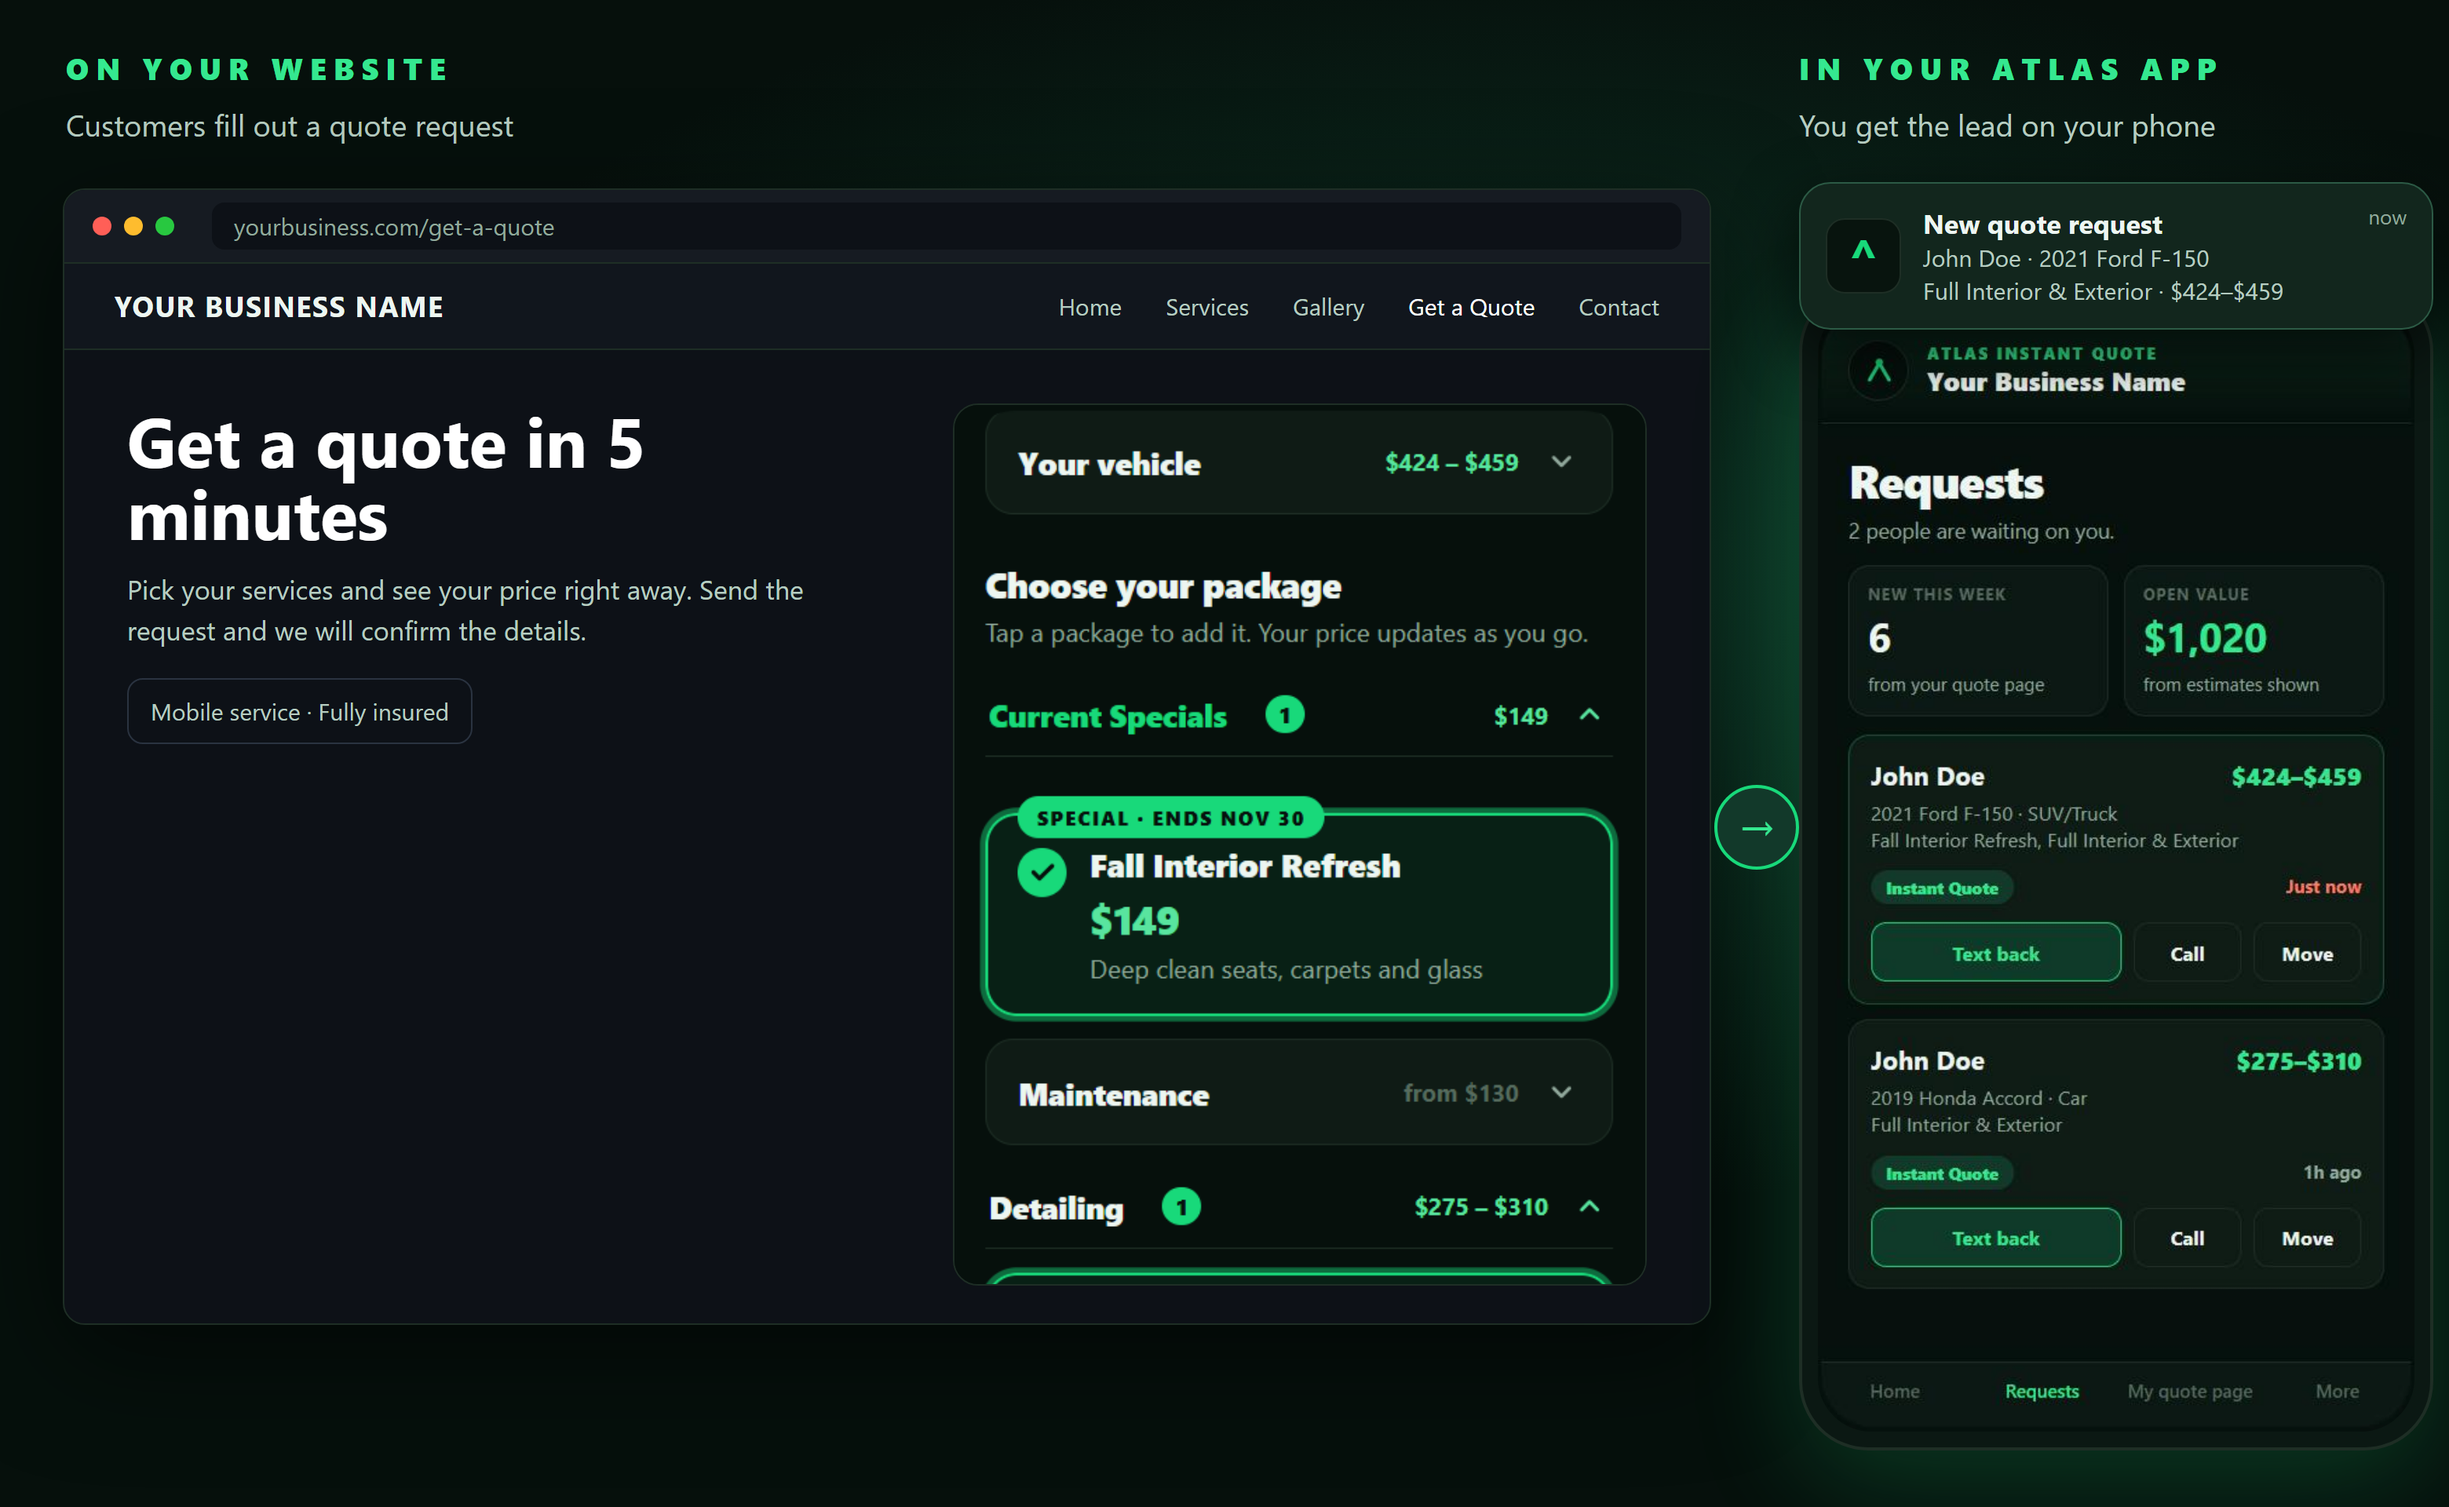
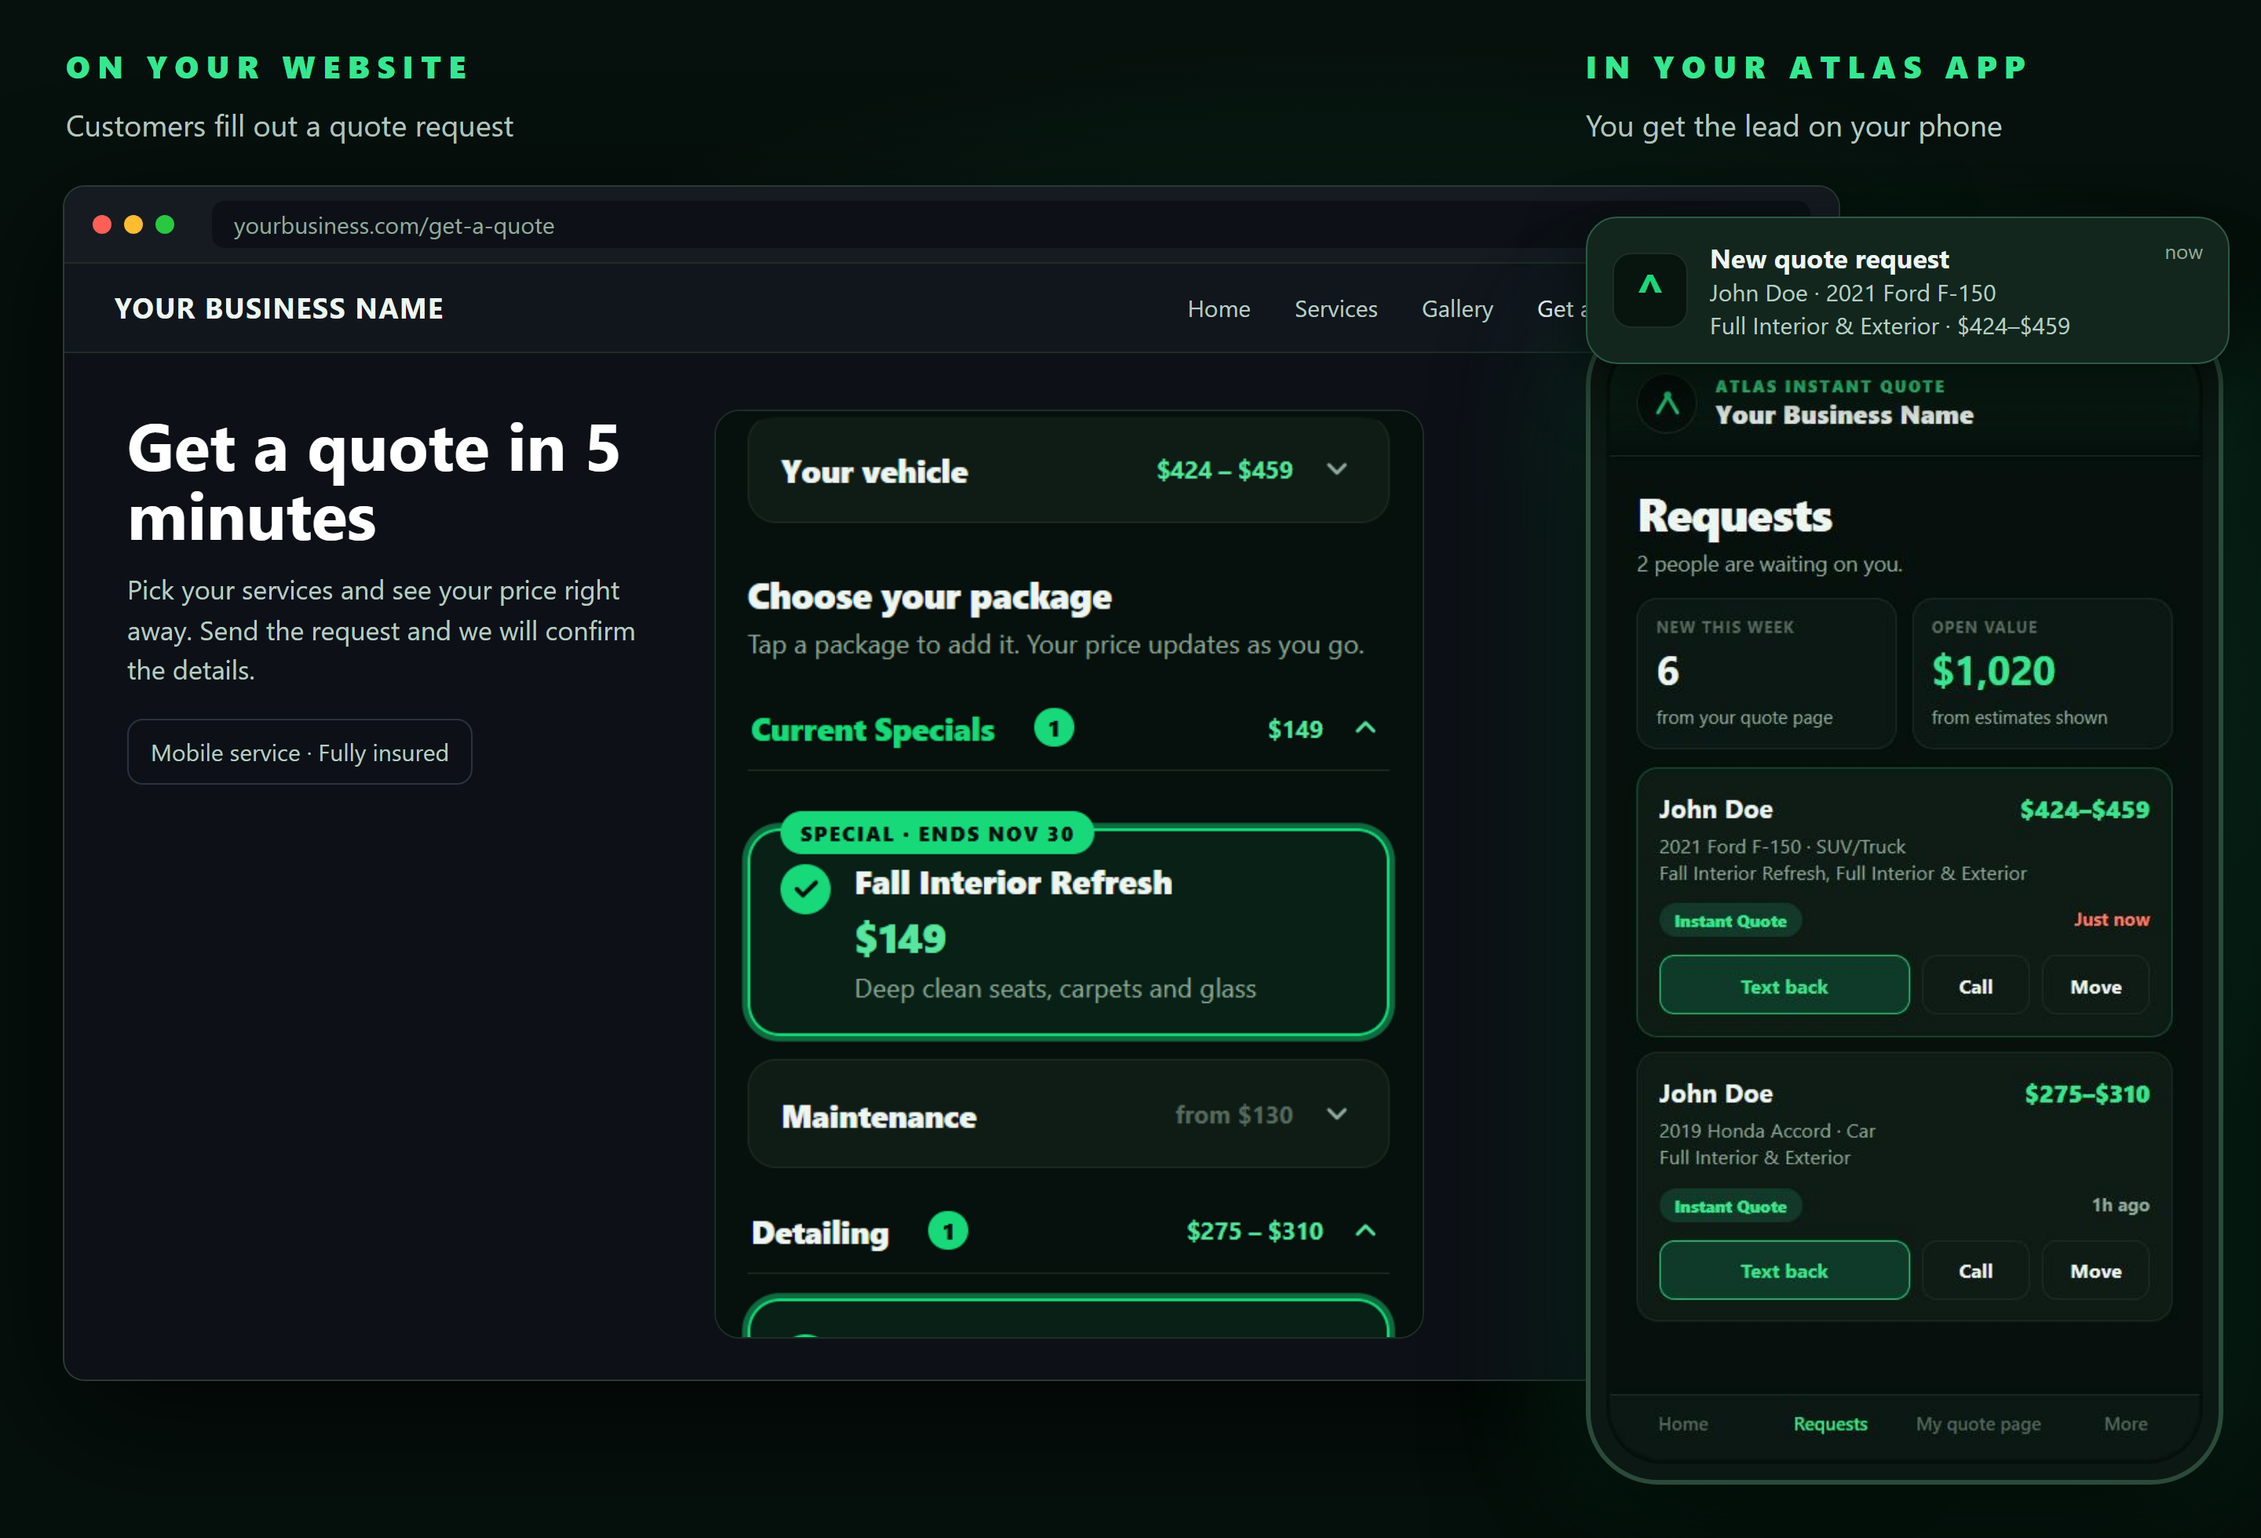
Hero image: phone overlaps the website mock in one combined picture
Claude-Session: https://claude.ai/code/session_01NYjTYLX6E3zJ2Lgkroj4cA

diff --git a/ATLAS_FEATURES.md b/ATLAS_FEATURES.md
@@ -49,7 +49,7 @@ Come back to these after the design look and style is settled.
 - Shopify $39 Done-For-You Setup offer.
 - Delete the "John Doe TEST" lead after Andre confirms the new text format.
 - Upgrade path from Instant Quote only to the full CRM (today Andre removes ui_prefs.mode in the database by hand).
-- Instant Quote Shopify product is built as a DRAFT ($147 self-serve / $247 we set it up). Andre to review, then say go to publish. Two hidden (unpublished) Shopify pages, both in the green Atlas hex look: atlas-instant-quote (sales/feature page with real demo screens: quote page, specials, send, phone alert, Requests, editor) and atlas-instant-quote-setup (7 steps + where the code goes). Demo images live in public/promo (atlas-quote-1..4.png, atlas-alert.jpg, atlas-requests.jpg, atlas-editor.jpg, atlas-hex.svg, atlas-website-and-phone.png, atlas-website-and-app.png). The sales page HERO is now one all-in-one picture (atlas-website-and-app.png): the quote form on a business website (labelled ON YOUR WEBSITE) next to the Atlas app Requests list with a New quote request push banner (labelled IN THE ATLAS APP), so buyers see both parts immediately. Below it, a "Lives on your website. Alerts on your phone." section with 3 steps. Next come "Fewer price-shoppers. More ready-to-book customers." (tire-kicker pain point, written as a pattern with NO invented stats or research claims) and "A tool that works with your website" (what the tool does vs what the owner still does: it is a quote tool, not booking/payments/auto-texting). FAQ has a "Does it book jobs or take payments?" answer. Selling guide: Desktop Atlas Plan 06-Atlas-Instant-Quote-How-To-Sell.md.
+- Instant Quote Shopify product is built as a DRAFT ($147 self-serve / $247 we set it up). Andre to review, then say go to publish. Two hidden (unpublished) Shopify pages, both in the green Atlas hex look: atlas-instant-quote (sales/feature page with real demo screens: quote page, specials, send, phone alert, Requests, editor) and atlas-instant-quote-setup (7 steps + where the code goes). Demo images live in public/promo (atlas-quote-1..4.png, atlas-alert.jpg, atlas-requests.jpg, atlas-editor.jpg, atlas-hex.svg, atlas-website-and-phone.png, atlas-website-and-app.png). The sales page HERO is now one all-in-one picture (atlas-website-and-app.png): the quote form on a business website (labelled ON YOUR WEBSITE) with the phone overlapping it in front, showing the Atlas app Requests list and a New quote request push banner (labelled IN THE ATLAS APP), so buyers see both parts immediately. Below it, a "Lives on your website. Alerts on your phone." section with 3 steps. Next come "Fewer price-shoppers. More ready-to-book customers." (tire-kicker pain point, written as a pattern with NO invented stats or research claims) and "A tool that works with your website" (what the tool does vs what the owner still does: it is a quote tool, not booking/payments/auto-texting). FAQ has a "Does it book jobs or take payments?" answer. Selling guide: Desktop Atlas Plan 06-Atlas-Instant-Quote-How-To-Sell.md.
 - COME BACK TO: the customer walk-through (sit down with Andre and rehearse the 7 steps and the done-for-you process).
 - Sign-up link is open to anyone (free, no payment gate). Keep it off public pages; send it only after purchase. If it leaks, add an access code.
 - Atlas design direction (Andre likes it): dark forest #06100C, green #18D97A, ONE hex plate print with the Atlas peak mark in a few plates (single layer, no overlapping patterns), Fjalla One headings on Shopify pages, generic 'Your Business Name', never Detail Hero branding.
